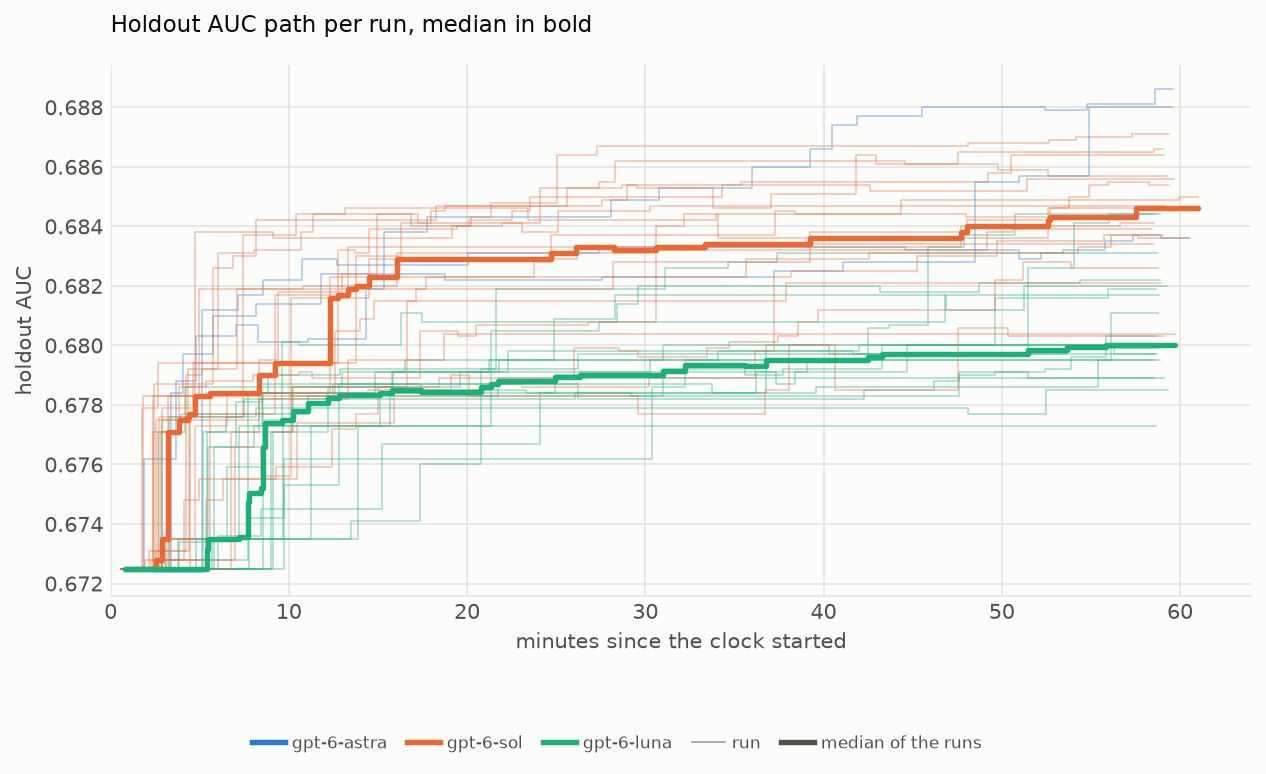
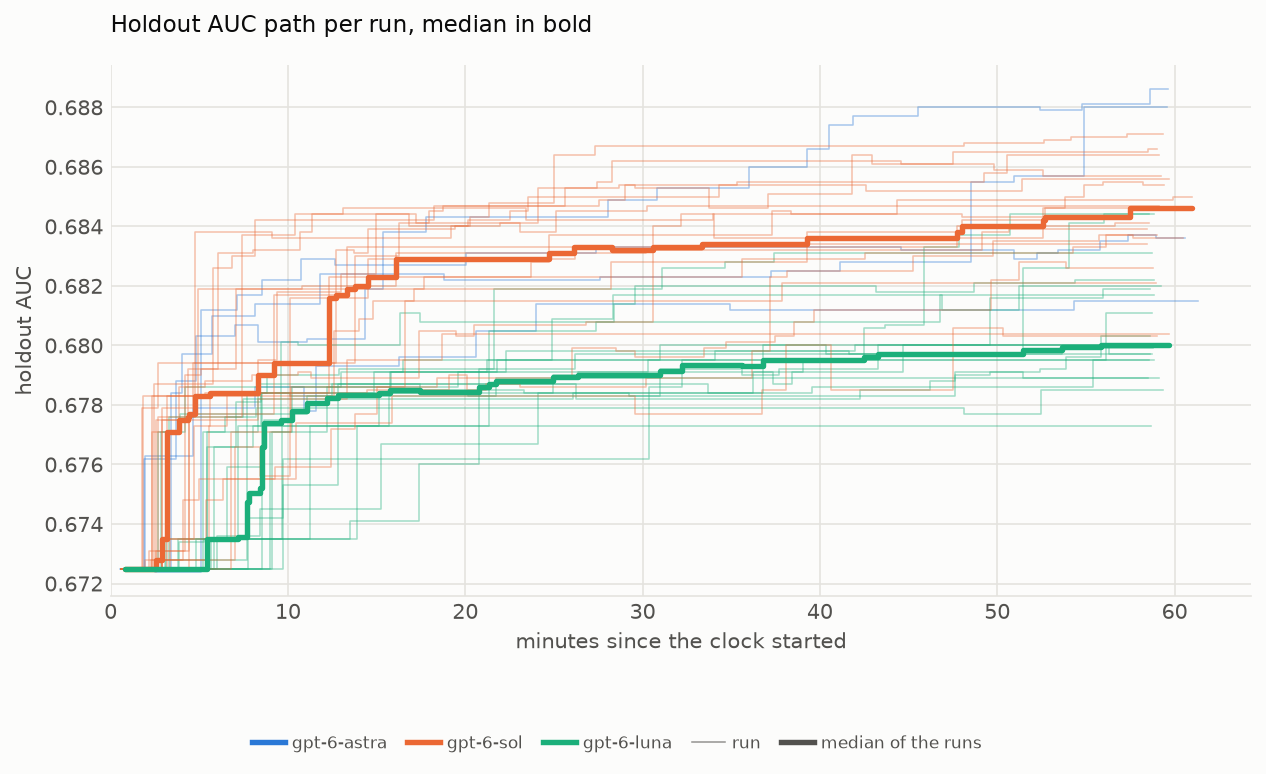
Summary with luna6_n20 complete, sol6_n20 runs 1-19 and astra6_n20 runs 1-4

diff --git a/README.md b/README.md
@@ -27,11 +27,11 @@ All runs with codex-cli 0.160.0 at effort max, a 24 GB container memory cap and 
 
 | model | groups | valid runs | excluded | holdout AUC mean | sd | min | median | max |
 |---|---|---|---|---|---|---|---|---|
-| gpt-6-astra | [astra6_n20](run-multi/astra6_n20/results_summary.md) | 3 | 0 | 0.6867 | 0.0027 | 0.6836 | 0.6880 | 0.6886 |
+| gpt-6-astra | [astra6_n20](run-multi/astra6_n20/results_summary.md) | 4 | 0 | 0.6854 | 0.0034 | 0.6815 | 0.6858 | 0.6886 |
 | gpt-6-sol | [sol6_n20](run-multi/sol6_n20/results_summary.md) | 19 (3 with caveat) | 0 | 0.6842 | 0.0019 | 0.6803 | 0.6846 | 0.6871 |
 | gpt-6-luna | [luna6_n20](run-multi/luna6_n20/results_summary.md) | 20 (4 with caveat) | 0 | 0.6806 | 0.0019 | 0.6773 | 0.6800 | 0.6844 |
 
-Seven runs carry a caveat; the plots draw them like any other run. Six are `keep_rule` (commits kept at an equal Eval AUC without being simpler or faster): luna6_n20-6, -8, -15, -18 and sol6_n20-8, -19. One is `turn_retries` (the waits after failed turns, with the model at capacity, took more than 2 minutes out of the hour): sol6_n20-16. No run was excluded. luna6_n20 is complete (20 runs); sol6_n20 and astra6_n20 are in progress, with 19 and 3 of their 20 runs reviewed so far. luna6_n20-1, -7, -11, -15 and sol6_n20-12 are valid with a `train_py_review` flag, a false match explained in their `run.md`. The test group test1 was moved to `archive/` and is not included. All valid runs have the same settings.
+Seven runs carry a caveat; the plots draw them like any other run. Six are `keep_rule` (commits kept at an equal Eval AUC without being simpler or faster): luna6_n20-6, -8, -15, -18 and sol6_n20-8, -19. One is `turn_retries` (the waits after failed turns, with the model at capacity, took more than 2 minutes out of the hour): sol6_n20-16. No run was excluded. luna6_n20 is complete (20 runs); sol6_n20 and astra6_n20 are in progress, with 19 and 4 of their 20 runs reviewed so far. luna6_n20-1, -7, -11, -15 and sol6_n20-12 are valid with a `train_py_review` flag, a false match explained in their `run.md`. astra6_n20-4 is valid with an `artifact_outside_clock` flag, explained in its `run.md`: the artifact of its last run, started inside the clock and cut off before it finished. The test group test1 was moved to `archive/` and is not included. All valid runs have the same settings.
 
 ![Holdout AUC per run](run-multi/SUMMARY/holdout_auc_beeswarm.png)
 <!-- xgb-summary: end -->
